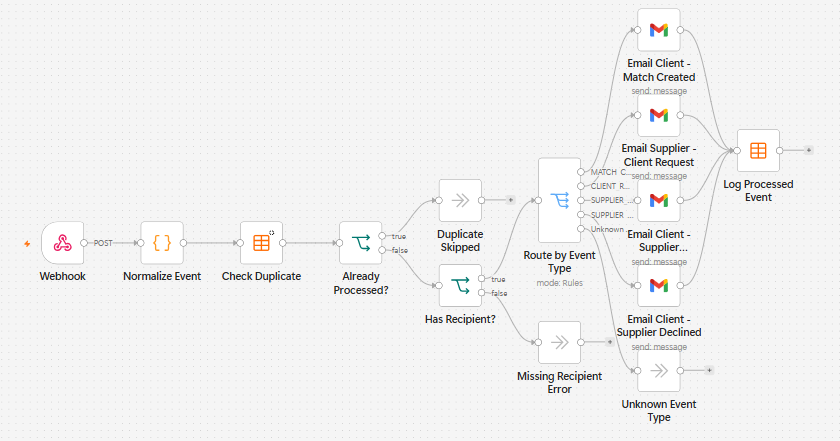
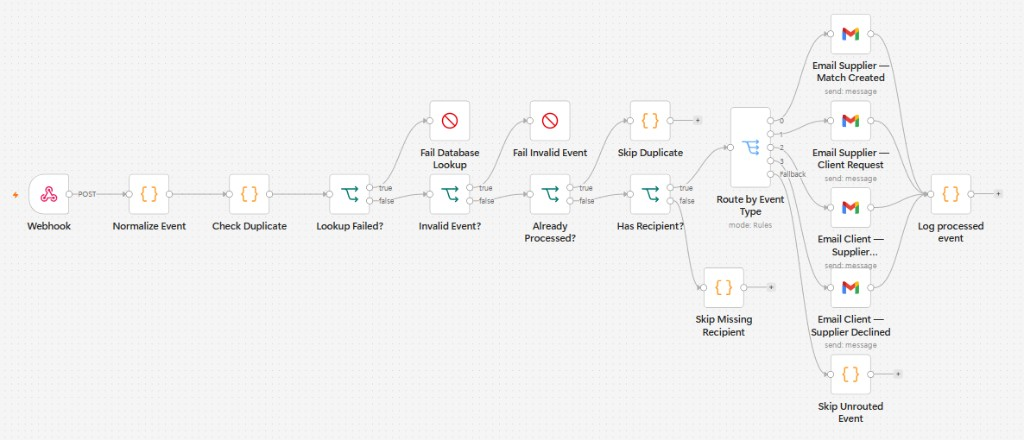
Update the README n8n diagram to the published notification hub.
Replace the workflow screenshot with the live Client Supplier Notification Hub graph so GitHub shows the current Check Duplicate and routing flow.

diff --git a/README.md b/README.md
@@ -236,16 +236,16 @@ This is the production n8n workflow currently used by NeoCube:
 ![n8n Client Supplier Notification Hub](docs/n8n-workflow.png)
 
 ```
-Webhook
+Webhook (POST)
   → Normalize Event
   → Check Duplicate
-  → Already Processed?
-  → Has Recipient?
+  → Lookup Failed? / Invalid Event? / Already Processed? / Has Recipient?
   → Route by Event Type
-      MATCH_CREATED        → Email Client — Match Created
+      MATCH_CREATED        → Email Supplier — Match Created
       CLIENT_REQUEST_SENT  → Email Supplier — Client Request
       SUPPLIER_ACCEPTED    → Email Client — Supplier Accepted
       SUPPLIER_DECLINED    → Email Client — Supplier Declined
+      (other)              → Skip Unrouted Event
   → Log processed event
 ```
 

diff --git a/docs/N8N.md b/docs/N8N.md
@@ -30,6 +30,8 @@ Do **not** use Get Row By ID with `event_id`. If you use a Data Table at all, fi
 
 ## Flow
 
+![n8n Client Supplier Notification Hub](n8n-workflow.png)
+
 ```
 Application commit
   → notify_n8n (deterministic event_id, POST JSON, 10s timeout)
